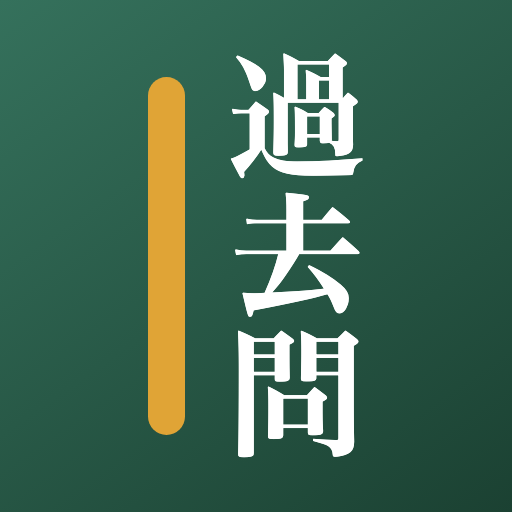
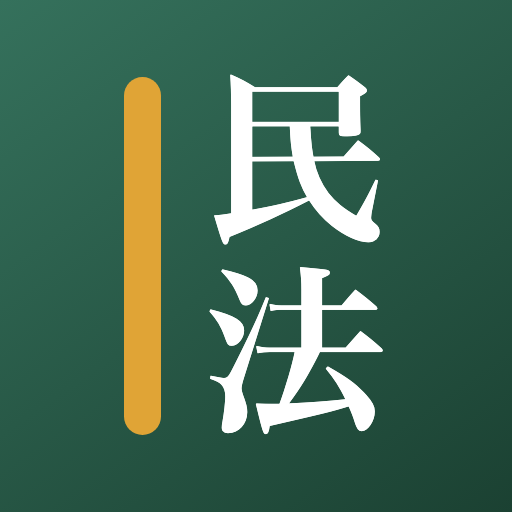
ホーム画面アイコンを「民法」に（民訴・会社法と揃える）
民訴＝「民訴」、会社法＝「会社」と科目名2文字にしてあるのに、民法だけ
「過去問」の3文字で揃っていなかった。短縮名も「民法」に統一する。
タブの favicon（帯だけのマーク）は変更しない。

Changed region(s): [[0.4062, 0.0938, 0.75, 0.9062], [0.2188, 0.125, 0.375, 0.875]]

diff --git a/index.html b/index.html
@@ -16,7 +16,7 @@
 <meta name="mobile-web-app-capable" content="yes">
 <meta name="apple-mobile-web-app-capable" content="yes">
 <meta name="apple-mobile-web-app-status-bar-style" content="default">
-<meta name="apple-mobile-web-app-title" content="過去問">
+<meta name="apple-mobile-web-app-title" content="民法">
 <meta property="og:type" content="website">
 <meta property="og:title" content="民法過去問帳">
 <meta property="og:description" content="ロー入試（既修者）の民法過去問を、単元ごとに引く。同志社・立命館・関学・慶應・中央の91回を収録。問題と解説は各大学の公式ページをそのまま開きます。">

diff --git a/tools/make_assets.py b/tools/make_assets.py
@@ -18,7 +18,8 @@ GOTHIC = "'Hiragino Sans','Hiragino Kaku Gothic ProN',sans-serif"
 
 
 def icon_html(size, pad_ratio=0.0):
-    """縦書き「過去問」＋左の帯。pad_ratio は maskable 用の安全余白。"""
+    """縦書き「民法」＋左の帯。pad_ratio は maskable 用の安全余白。
+    民訴版・会社法版と揃えて、科目名の2文字にしてある。"""
     inset = size * pad_ratio
     inner = size - inset * 2
     return f"""<body style="margin:0;width:{size}px;height:{size}px;
@@ -27,9 +28,9 @@ def icon_html(size, pad_ratio=0.0):
      display:flex;align-items:center;justify-content:center;gap:{inner*0.085}px">
   <div style="width:{inner*0.072}px;height:{inner*0.70}px;background:{BAR};
        border-radius:{inner*0.036}px"></div>
-  <div style="font-family:{MINCHO};color:#fff;font-size:{inner*0.265}px;line-height:1.02;
+  <div style="font-family:{MINCHO};color:#fff;font-size:{inner*0.36}px;line-height:1.04;
        letter-spacing:0;text-align:center;font-weight:600">
-    過<br>去<br>問
+    民<br>法
   </div>
 </div></body>"""
 

diff --git a/CLAUDE.md b/CLAUDE.md
@@ -100,7 +100,7 @@ python3 tools/build_data.py       # データ再生成（index.html にも反映
 - **条文番号は字間アキ・行またぎで割れる**。関学の PDF は「1 7 8 条」のように字間が空き、同志社の解説は「182条・183条・1\n84条」のように行で割れる。そのまま数えると `8条` `84条` `13条` のような幽霊条文が出る（実例: 同志社2021前期の「113条」が「13条」と読まれ、誤って制限行為能力の単元がついていた）。**数字の間の空白・改行を先に詰めてから**条番号を拾うこと。
 - **他法の条文に注意**: 関学2023C日程は「農業動産信用法13条」を引用している。マスクし損ねると民法13条になる。
 - **条文の拾い方**: 「民法95条」だけでなく「、95条1項2号」のような裸の参照も拾う必要がある。他法（借地借家法31条、民執155条 等）を先にマスクしてから `NNN条` を数える。慶應は「民416」表記も使う。
-- **タブの favicon はホーム画面アイコンと別意匠**。ホーム画面は縦書き「過去問」の3文字だが、タブは 16〜32px まで縮む。6案を実寸で比較したところ、**3文字は 32px でも潰れ、「過」一文字でも 16px では読めない**。そこで favicon は**文字を入れず「緑地＋琥珀の帯」だけ**にしてある（`favicon_html()`）。帯はホーム画面アイコンにも入っているので同じアプリだと分かる。
+- **タブの favicon はホーム画面アイコンと別意匠**。ホーム画面は縦書きの**科目名2文字「民法」**（民訴版・会社法版と揃えてある。当初は「過去問」の3文字だった）。タブは 16〜32px まで縮む。6案を実寸で比較したところ、**3文字は 32px でも潰れ、一文字でも 16px では読めない**。そこで favicon は**文字を入れず「緑地＋琥珀の帯」だけ**にしてある（`favicon_html()`）。帯はホーム画面アイコンにも入っているので同じアプリだと分かる。
 - **`favicon.ico` を置かないとタブに頭文字の代替アイコン（丸に「G」）が出る**。`<link rel="icon" sizes="192x192">` だけでは Safari 等がタブ用として拾わない。`favicon.ico`（16/32/48 の多重解像度）＋ `icon-16/32.png` を置き、head で明示すること。Retina では 16px 枠に 32px が使われるので、32px で読めるかが実質の判断基準。
 - **ICO は Pillow で作らない**（`tools/make_assets.py` の `write_ico()` で自前生成）。Pillow の `save(format="ICO")` は、
   - 既定で中身が **PNG 圧縮**になる（`file favicon.ico` が "with PNG image data" と出る）
